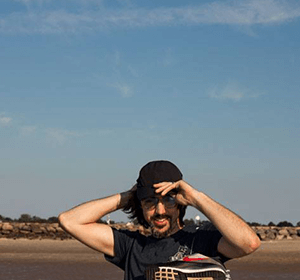
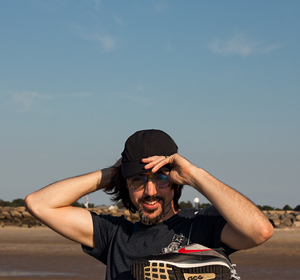
new Hi-Res Img

diff --git a/index.html b/index.html
@@ -97,7 +97,7 @@
               </a>
             </div>
             <div class="element clearfix col1-3 about home hybrid offWhite">
-              <div class="images"> <img src="images/about02.jpg" alt="John Doe" /> </div>
+              <figure class="images"> <img src="images/about02.jpg" srcset="images/about02.jpg 1x, images/about02-lrg.jpg 1.5x" alt="Joseph Taylor" /> </figure>
               <div class="elem-content">
                 <p class="small">Design Focused</p>
                 <h3 class="">Joseph Taylor</h3>
@@ -371,7 +371,7 @@ Design Services</p>
 </ul>
 </div>
 <div class="ft-part student">
-<p class="small">Student Work</p>
+<p class="small">Sample Work</p>
 </div>
 </div>
 <div class="element clearfix col1-3 grey auto whtmtn">
@@ -699,7 +699,7 @@ Design Services</p>
 </ul>
 </div>
 <div class="ft-part student">
-<p class="small">Student Work</p>
+<p class="small">Sample Work</p>
 </div>
 </div>
 <div class="element clearfix col1-3 grey auto pad">
